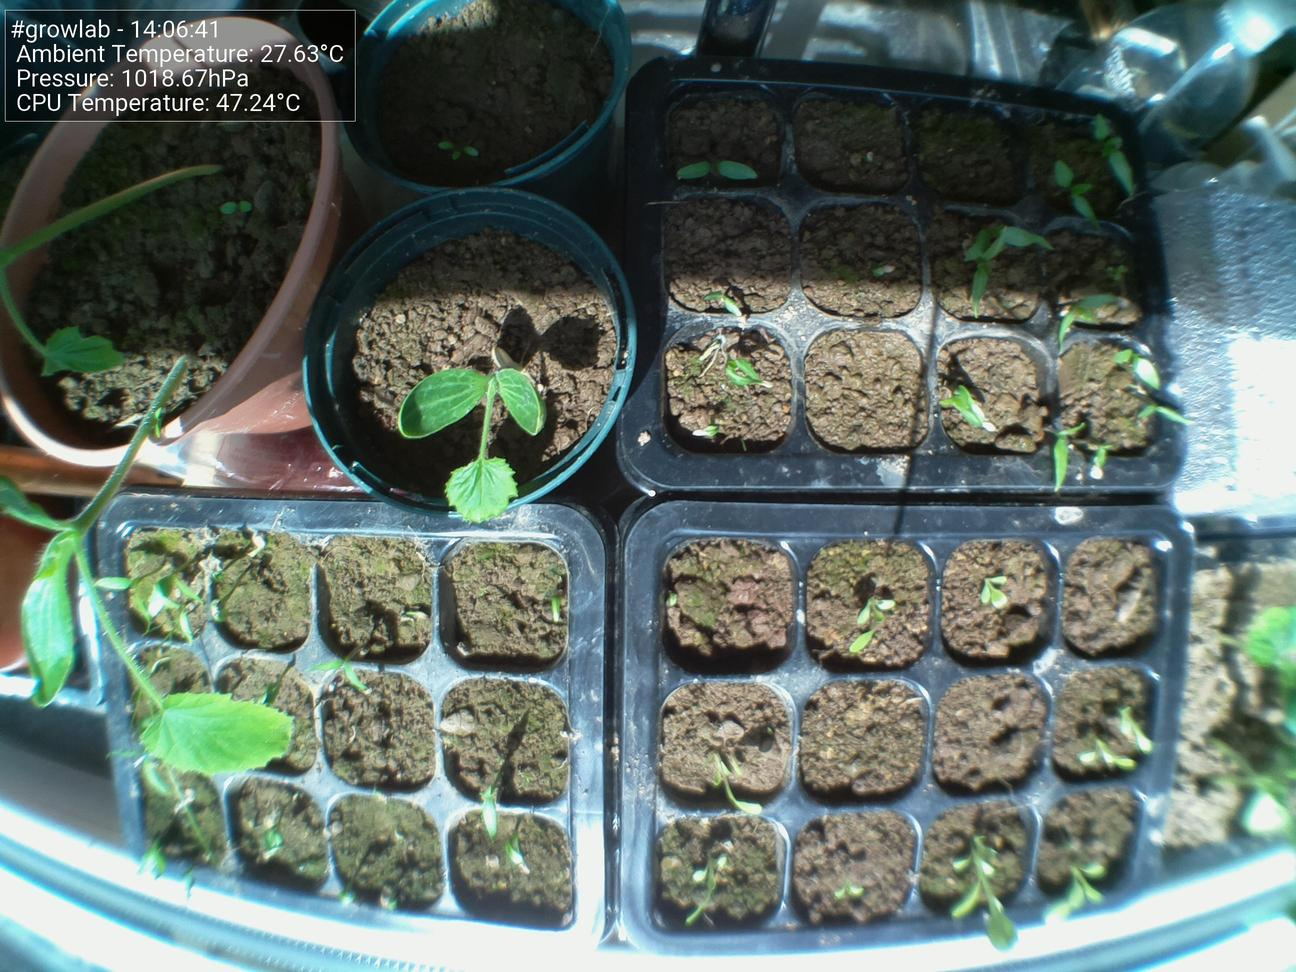
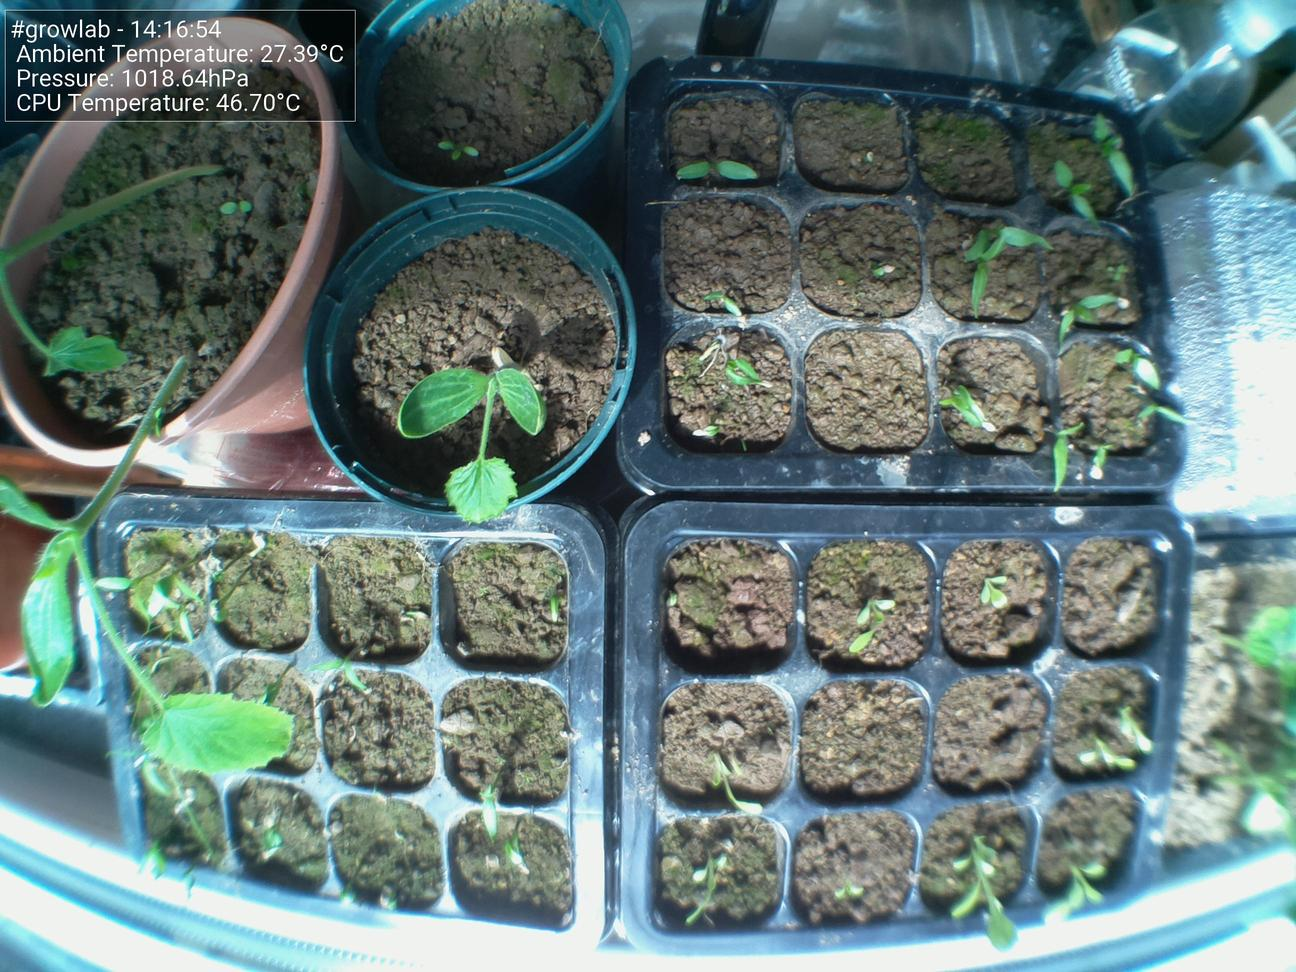
Update images at Sat  7 May 14:16:59 BST 2022

diff --git a/docs/index.html b/docs/index.html
@@ -44,15 +44,15 @@
                         <tbody>
                             <tr>
                                 <td>Time</td>
-                                <td>14:06:41</td>
+                                <td>14:16:54</td>
                             </tr>
                             <tr>
                                 <td>CPU Temp</td>
-                                <td>47.24°C</td>
+                                <td>46.70°C</td>
                             </tr>
                             <tr>
                                 <td>Ambient Temperature</td>
-                                <td>27.63°C</td>
+                                <td>27.39°C</td>
                             </tr>
                             <tr>
                                 <td>Humidity</td>
@@ -60,7 +60,7 @@
                             </tr>
                             <tr>
                                 <td>Pressure</td>
-                                <td>1018.67hPa</td>
+                                <td>1018.64hPa</td>
                             </tr>
                         </tbody>
                     </table>
@@ -68,7 +68,7 @@
 
                 <h5>Latest image</h5>
                 <div style="width: 85%;">
-                            <img class="figure-img img-fluid rounded" src="./preview.jpg?uid=1651928807.2262578">
+                            <img class="figure-img img-fluid rounded" src="./preview.jpg?uid=1651929419.2949407">
                 </div>
             </div>
         </div>
